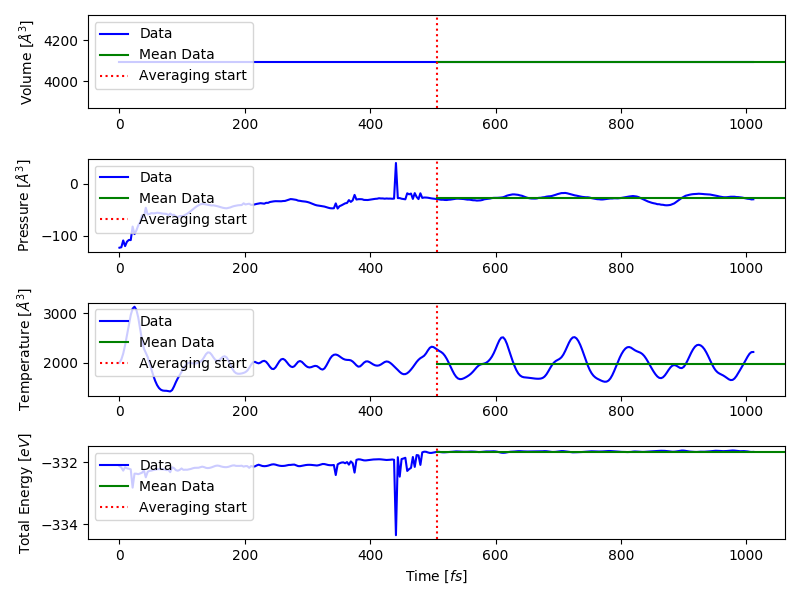
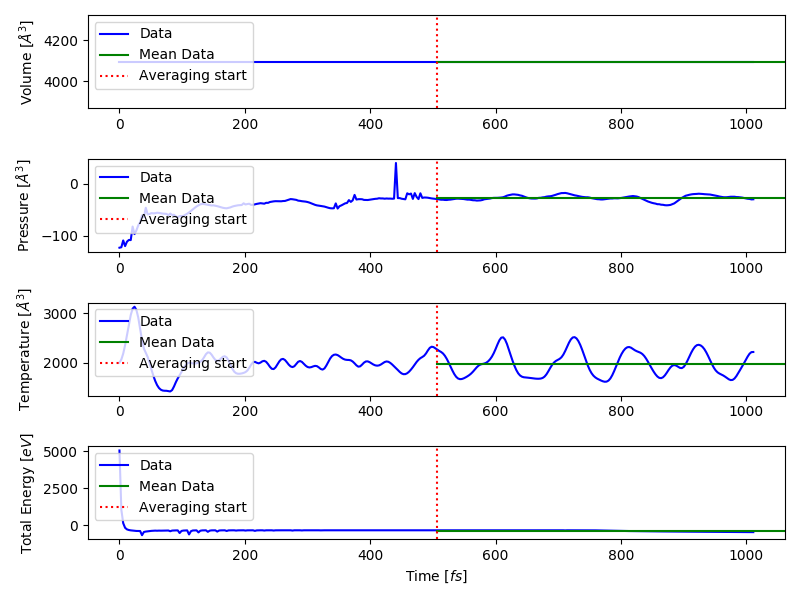
Changed the energy used to check system settling.

diff --git a/volumes/gather_data/scripts/parsers.py b/volumes/gather_data/scripts/parsers.py
@@ -105,7 +105,7 @@ def outcar(path):
                 if '(temperature' in line:
                     temperatures.append(float(line[5]))
 
-                if 'ETOTAL' in line:
+                if ('free' in line) and ('TOTEN' in line):
                     etotal.append(float(line[4]))
 
     volumes = np.array(volumes)
